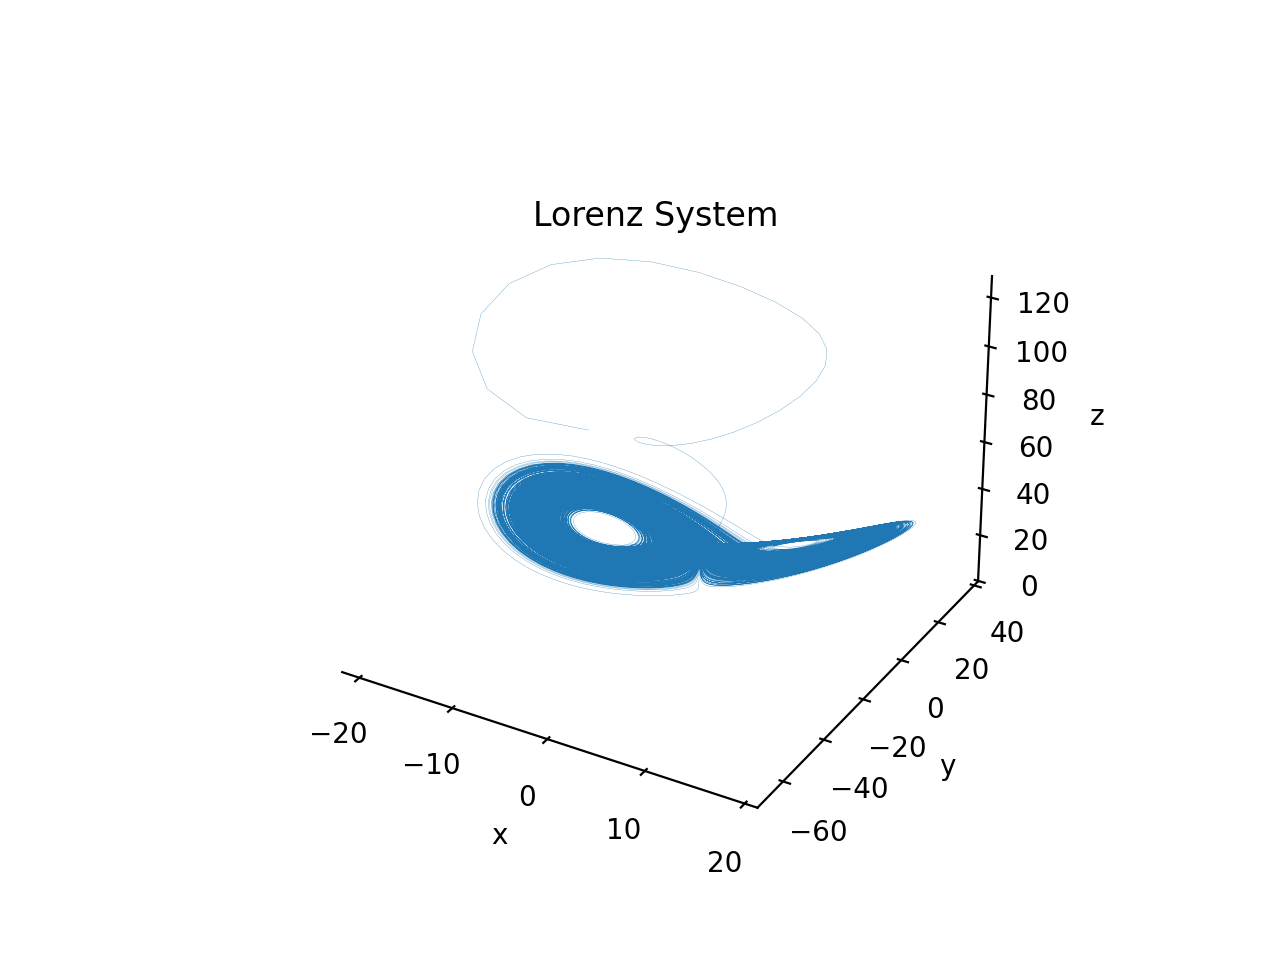
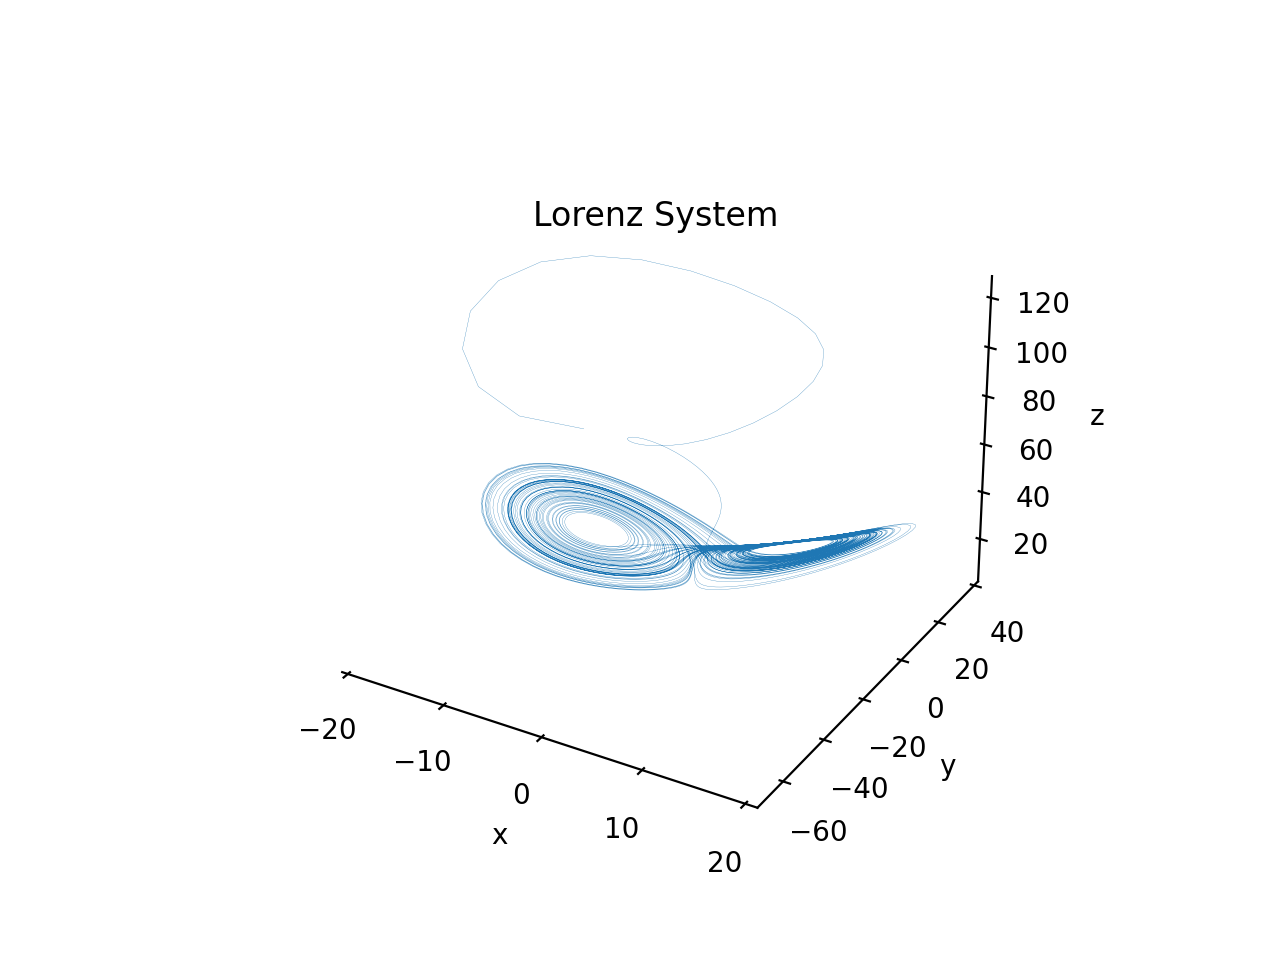
readme edits and file organization

diff --git a/Lorenz_Attractor_Analysis_Code.py b/Lorenz_Attractor_Analysis_Code.py
@@ -361,7 +361,7 @@ def plot_system(x, y, z, system_name, pc, p_axis, plane):
             ax.plot_surface(X, Y, Z, color='silver', alpha=0.7)
 
         ax.set_title(f"Poincare Plane Intersection for the Plane {p_axis} = {plane} of the {system_name}")
-        plt.savefig(f"figures/analysis/Poincare_Plane_Intersection_{system_name}")
+        plt.savefig(f"figures/analysis/Poincare_Maps/Poincare_Plane_Intersection_{system_name}")
 
     return
 
@@ -505,7 +505,7 @@ def orbsep(method, sub_method, system, init, d0, plot_running, dt, num_steps_to_
         plt.xlabel("Time")
         plt.title(f"Running Lyapunov Values vs. Time for the {system_name}")
         plt.plot(x_vals, running_avg)
-        plt.savefig("figures/analysis/Orbit_Separation_Running_Lyaponuv_Values")
+        plt.savefig(f"figures/analysis/Orbit_Separation_Running_Lyaponuv_Values_{system_name}")
 
     return running_avg[-1]
 
@@ -549,9 +549,9 @@ def avg_lyapunov(lyapunov_method, params, system, method, sub_method, dt, num_st
 
 # Poincare Maps
 
-def poincare(x, y, z):
+def poincare(x, y, z, system_name):
 
-    axis = input("Input axis of intersecting plane: ")
+    axis = (input("Input axis of intersecting plane (x, y or z): ")).lower()
     plane = int(input("Input equation for constant plane of intersection: "))
     crossings_intsec1, crossings_intsec2 = np.array([]), np.array([])
 
@@ -578,24 +578,24 @@ def poincare(x, y, z):
 
     plt.figure(figsize=(6, 6))
     plt.scatter(crossings_intsec1, crossings_intsec2, s=10, color='blue')
-    plt.title(f"Poincaré Section at {axis} = {plane}")
+    plt.title(f"Poincaré Section of the {system_name} at {axis} = {plane}")
     plt.xlabel(intsec_axis1)
     plt.ylabel(intsec_axis2)
     plt.grid(True)
-    plt.savefig("/figures/analysis/Poincare_Map")
+    plt.savefig(f"figures/analysis/Poincare_Maps/Poincare_Map_{system_name}_{axis}={plane}")
     plt.show()
 
-    plot_system(x, y, z, True, axis, plane)
+    plot_system(x, y, z, system_name, True, axis, plane)
 
     intsec_points = [[intsec_axis1, intsec_axis2]]
 
-    with open("figures/analysis/poincare_intersections.txt", "w") as write_file:
+    with open(f"figures/analysis/Poincare_Maps/Intersection_Points/poincare_intersections_{system_name}_{axis}={plane}.txt", "w") as write_file:
         write_file.write(str(intsec_points[0])+'\n')
         for j in range(1, len(crossings_intsec1)+1):
             intsec_points.append([float(crossings_intsec1[j-1]), float(crossings_intsec2[j-1])])
             write_file.write(str(intsec_points[j])+'\n')
 
-    return intsec_points
+    return
 
 ############################################################################################################################
 
@@ -638,7 +638,7 @@ def richardson_extrapolation(sol_h, init, plot, model_str, model, method, system
         plt.title(f"Approximate Error of {model_str} Modelling Method, {system_name}")
         plt.xlabel("Time (s)")
         plt.ylabel("Error")
-        plt.savefig(f"figures/analysis/Richardson_Extrapolation_Local_Trucation_Error_{system_name}")
+        plt.savefig(f"figures/analysis/Modelling_error/Richardson_Extrapolation_Local_Trucation_Error_{system_name}")
 
     return local_errors
 
@@ -671,11 +671,11 @@ def RE_error_comp(init, dt, params, num_steps_to_stop, system, log_scale, system
         plt.yscale("log")
         plt.ylabel("Error, Logarithmic Scale")
         plt.legend(loc="lower right")
-        plt.savefig(f"figures/analysis/Error_comparison_log_{system_name}")
+        plt.savefig(f"figures/analysis/Modelling_Error/Error_comparison_log_{system_name}")
     else:
         plt.ylabel("Error")
         plt.legend(loc="upper left")
-        plt.savefig(f"figures/analysis/Error_comparison_{system_name}")
+        plt.savefig(f"figures/analysis/Modelling_Error/Error_comparison_{system_name}")
 
     return
 
@@ -819,7 +819,7 @@ def run(init, dt, num_steps_to_stop, params, runtime, system, EM, improved_EM, R
         print(avg_lyapunov(lyapunov_method, params, system, method, sub_method, dt, num_steps_to_stop, d0, discard, num_iterations))
 
     if Poincare:
-        print(poincare(x, y, z))
+        poincare(x, y, z, system_name)
 
     if runtime:
         end_time = time.time()
@@ -827,7 +827,7 @@ def run(init, dt, num_steps_to_stop, params, runtime, system, EM, improved_EM, R
 
     print("Done")
 
-    if plot or plot_xy or plot_xz or plot_yz or plot_all or orbit_sep or modelling_error or error_comparison or model_henon or sensitive_dependance:
+    if plot or plot_xy or plot_xz or plot_yz or plot_all or orbit_sep or modelling_error or error_comparison or model_henon or sensitive_dependance or Poincare:
         plt.show()
 
     return

diff --git a/run.py b/run.py
@@ -50,7 +50,7 @@ system = lrnz.lorenz
 # Modelling methods:
 EM = 0
 improved_EM = 0
-RK4 = 0
+RK4 = 1
 RK8 = 0
 model_henon = 0
 
@@ -75,7 +75,7 @@ plot_running = 'y' # y or n
 GS = 0
 
 # Average Lyapunov Exponent and Uncertainties
-average_lyapunov = 1
+average_lyapunov = 0
 lyapunov_method = lrnz.orbsep
 num_iterations = 1000
 
@@ -86,7 +86,7 @@ d0 = 1e-8 # Orbit Seperation and Average Lyapunov
 discard = 100 # Orbit Seperation, Gram-Schmidt and Average Lyapunov
 
 # Poincare Map
-Poincare = 0
+Poincare = 1
 
 # Modelling Error
 modelling_error = 0

diff --git a/README.md b/README.md
@@ -2,7 +2,7 @@
 
 ## Basic Overview
 
-This code provides some analysis and modelling tools for various systems of ordinary differential equations. It currently includes implementations for the Lorenz, Rabinovich Fabrikant, Chen, Hénon, Modified Chua and Duffing systems. Basic knowledge of Python is recommended for use of this code.
+This code provides some analysis and modelling tools for various systems of ordinary differential equations. It currently includes implementations for the Lorenz, Rabinovich Fabrikant, Chen, Hénon, Modified Chua and Duffing systems. Basic knowledge of Python is recommended for use of this code. In order to run the code, the following libraries need to be installed: ```numpy```, ```matplotlib```, and ```time```.
 
 The code has the following implmentations:
 - Modelling in 3-dimensional space (where applicable), as well as their projections on the xy, xz and yz planes. The following modelling methods are implemented:
@@ -19,9 +19,7 @@ The code has the following implmentations:
 
 ## Code Use Instructions
 
-A video demonstrating how to use each implementation of the code can be found here: INSERT LINK. Text instructions are below. 
-
-All of the code is run and managed from the ```run.py``` file. This is where the initial conditions, system parameters, number of steps and step size are chosen. This is also where the commands are placed for which analysis method to use. This is done by making the desired command variable equal to 1. Each analysis method has some additional parameters that need to be specified, some of while are repeated across methods. These repeated parameters are placed below the commands under the comment block ```Additional Commands for the noted analysis methods```. The required use of these parameters will be discussed in more detail for each analysis method.
+All of the code is run and managed from the ```run.py``` file through a series of command sections. This is where the initial conditions, system parameters, number of steps and step size are chosen. It is also where the commands are placed for which analysis method to use. This is done by making the desired command variable equal to 1. Each analysis method has some additional parameters that need to be specified, some of while are repeated across methods. These repeated parameters are placed below the commands under the comment block ```Additional Commands for the noted analysis methods```. The required use of these parameters will be discussed in more detail for each analysis method.
 
 #### Initial Conditions
 Initial conditions (IC's) are required for all analysis methods except for computing the average Lyapunov spectrum or maximal value. Pre-set IC's are availible for use for each system, or one can create their own custom IC's. The chosen IC must be specified in the ```init``` variable. For example, if one wanted to use the initial conditions for the lorenz system or use custom parameters, they would set ```init = init_lorenz``` or ```init = init_custom```, respectively.
@@ -50,7 +48,7 @@ Runtime is a variable that can be set to ```1``` or ```0``` to print out the com
 
 #### Modelling
 
-In order to model a system the code requires the use of the following command sections: 1. System, 2. Modelling methods and 3. Plotting
+In order to model a system the code requires the use of the following command sections: System, Modelling methods and Plotting.
 
 1. System: 
     The system section consists of a variable ```system``` which allows one to choose the system that they would like to model. Each system has its own function that must be called, and are specified as follows:
@@ -117,7 +115,7 @@ The following analysis tools are implemented in the code:
     - Orbit Separation
     - Modified Gram-Schmidt Orthonormalization
     - Average Lyapunov Exponent and Uncertainties
-3. Poincare Map
+3. Poincare Maps
 4. Modelling Error
 
 Each of the above tools are explained in their own section below. Note that the code was developed primarily for use with the Lorenz system, so analysis functionality with the other systems was not sufficiently tested. Additionally, overlap of variables may result in errors if multiple analysis methods are run at once, so only doing one at a time is recommended.
@@ -131,7 +129,7 @@ sensitive_dependance = 0
 disturbance = 0.0001
 ```
 
-Setting ```sensitive_dependance = 1``` results in the system being modelled twice - once with the initial conditions set in the Initial Conditions command section, and another with the same initial conditions, but the initial x value is disturbed by the amount ```disturbance```. A plot of the differences between the 2 models is generated and saved under ```figures/analysis/sensitive_dependance_{system name}.png``` in the working directory. One can modify the ```disturbance``` value to investigate how slight changes in initial conditions results in large changes in final values in deterministic chaotic systems. To calculated the senstive dependance, the system must be manually modelled using the tools outlined earlier.
+Setting ```sensitive_dependance = 1``` results in the system being modelled twice - once with the initial conditions set in the Initial Conditions command section, and another with the same initial conditions, but the initial x value is disturbed by the amount ```disturbance```. A plot of the differences between the 2 models is generated and saved under ```figures/analysis/Sensitive_Dependance/sensitive_dependance_{system name}.png``` in the working directory. One can modify the ```disturbance``` value to investigate how slight changes in initial conditions results in large changes in final values in deterministic chaotic systems. To calculated the senstive dependance, the system must be manually modelled using the tools outlined earlier.
 
 #### Lyapunov Exponents
 
@@ -157,7 +155,7 @@ d0 = 1e-8 # orbit seperation and Average Lyapunov
 discard = 100 # Orbit Seperation, Gram-Schmidt and Average Lyapunov
 ```
 
-The final section, ```# Additional commands for the noted analysis methods```, contains commands used in the noted analysis methods. They were combined into one section to avoid command overlap. Each section is explained below.
+The final section, ```# Additional commands for the noted analysis methods```, contains commands used in the noted analysis methods. They were combined into one section to avoid variable overlap. Each section is explained below.
 
 **Orbit Separation:**
 
@@ -182,10 +180,36 @@ In order to avoid calulation errors, an initial set of values should be discarde
 
 It is recommeneded to leave the ```d0``` and ```discard``` values unchanged.
 
+The maximal Lyapunov exponent will be printed to the terminal, and if ```plot_running = 1``` then the generated figure will be saved to ```figures/analysis/Lyapunov_Exponents/figures/analysis/Orbit_Separation_Running_Lyaponuv_Values_{system_name}.png```
+
 **Modified Gram-Schmidt Orthonormalization Method:**
 
-Using the Modified Gram-Schmidt Orthonormalization Method requires setting ```GS = 1```, as well as fully modelling the desired system, as discussed earlier. As with Orbit Separation, the ```discard``` variable discards an initial set of values from the calculation. It is recommended to leave this unchanged. 
+Using the Modified Gram-Schmidt Orthonormalization Method requires setting ```GS = 1```, as well as fully modelling the desired system, as discussed earlier. As with Orbit Separation, the ```discard``` variable discards an initial set of values from the calculation. It is recommended to leave this unchanged. The spectrum of Lyapunov exponents will be printed to the terminal.
 
 **Average Lyapunov:**
 
-To determine the Average Lyapunov exponent, set ```orbit_sep = 0```, ```GS = 0``` and ```average_lyapunov = 1```. The other  commands used are ```lyapunov_method```, ```num_iterations```, ```method```, ```sub_method```, ```d0``` and ```discard```. Setting ```lyapunov_method = lrnz.orbsep``` or ```lyapunov_method = lrnz.GS_ortho``` determines the average Lyapunov value(s) using the Orbit Separation Method or the Modified Gram-Schmidt Orthonormalization Method, respectively. ```num_iterations``` specifies the number of times the Lyapunov values are calculated, enabling an average to be calculated. The other commands have the same functionality as earlier described, however all need to be set, regardless of the choice of ```lyapunov_method```. The parameters, step size and number of steps also need to be specified, however the initial conditions do not.
+To determine the Average Lyapunov exponent, set ```orbit_sep = 0```, ```GS = 0``` and ```average_lyapunov = 1```. The other  commands used are ```lyapunov_method```, ```num_iterations```, ```method```, ```sub_method```, ```d0``` and ```discard```. Setting ```lyapunov_method = lrnz.orbsep``` or ```lyapunov_method = lrnz.GS_ortho``` determines the average Lyapunov value(s) using the Orbit Separation Method or the Modified Gram-Schmidt Orthonormalization Method, respectively. ```num_iterations``` specifies the number of times the Lyapunov values are calculated, enabling the average and error calculations. The other commands have the same functionality as earlier described, however all need to be set, regardless of the choice of ```lyapunov_method```. The parameters, step size and number of steps also need to be specified, however the initial conditions do **not**. The average Lyapunov exponent(s) and their error will be printed to the terminal. If ```lyapunov_method = lrnz.orbsep``` is chosen, the running exponent values will not be plotted.
+
+#### Poincare Maps
+
+The command section for this analysis tool is the following:
+
+```python
+# Poincare Map
+Poincare = 0
+```
+
+To plot a Poincare Map for a system, set ```Poincare = 1```. Before running, the commands for a model of the system need to be set up. This includes setting the parameters, initial conditions, step size, number of steps, ```system``` and a modelling method. After running the code, two prompts will appear in the terminal. The first one is ```"Input axis of intersecting plane (x, y or z): " ```, and the second one is ```"Input equation for constant plane of intersection: "```. The first input gets the user to choose what axis they want their intersecting plane to be on. The inputs $(x, y, z) \text{ or } (X, Y, Z)$ for the standard axes of $\mathbb{R}^3$ are accepted. The second input gets the user to input the point along the specified axis at which the plane will be constructed. As previously mentioned, this code only provides support for constant planes. For example, if the inputs to the first and second prompts were respectively chosen as ```z``` and ```25```, a Poincare map would be produced of the intersections of the model with the plane $z = 25$. A 3D plot of the model and the specified plane is also produced. All plots will be saved to ```figures/analysis/Poincare_Maps/Poincare_Map_{system_name}_{axis}``` in the working directory. A text file of the intersection points will also be created and saved to ```figures/analysis/Poincare_Maps/Intersection_Points/poincare_intersections_{system_name}_{axis}={plane}.txt``` in the working directory. ```axis``` and ```plane``` are the user inputs.
+
+#### Modelling Error
+
+The command section for this analysis tool is as follows:
+
+```python
+# Modelling Error
+modelling_error = 0
+error_comparison = 0
+log_scale = 0
+```
+
+In order to calculate the modelling error of a single model, set ```modelling_error = 1```. Before running, the commands for a model of the system need to be set up. This includes setting the parameters, initial conditions, step size, number of steps, ```system``` and a modelling method. By setting ```error_comparison = 1```, a plot of the error for each of the modelling methods, EM, IEM, RK4 and RK8, will be generated to faciliate error comparison. Before running, the commands for a model of the system need to be set up. This includes setting the parameters, initial conditions, step size, number of steps and ```system```. A modelling method does not need to be chosen. All plots will be produced and saved to ```figures/analysis/Modelling_Error``` in the working directory. In either of the above cases, setting ```log_scale = 1``` plots the figures on a logarithmic scale.
